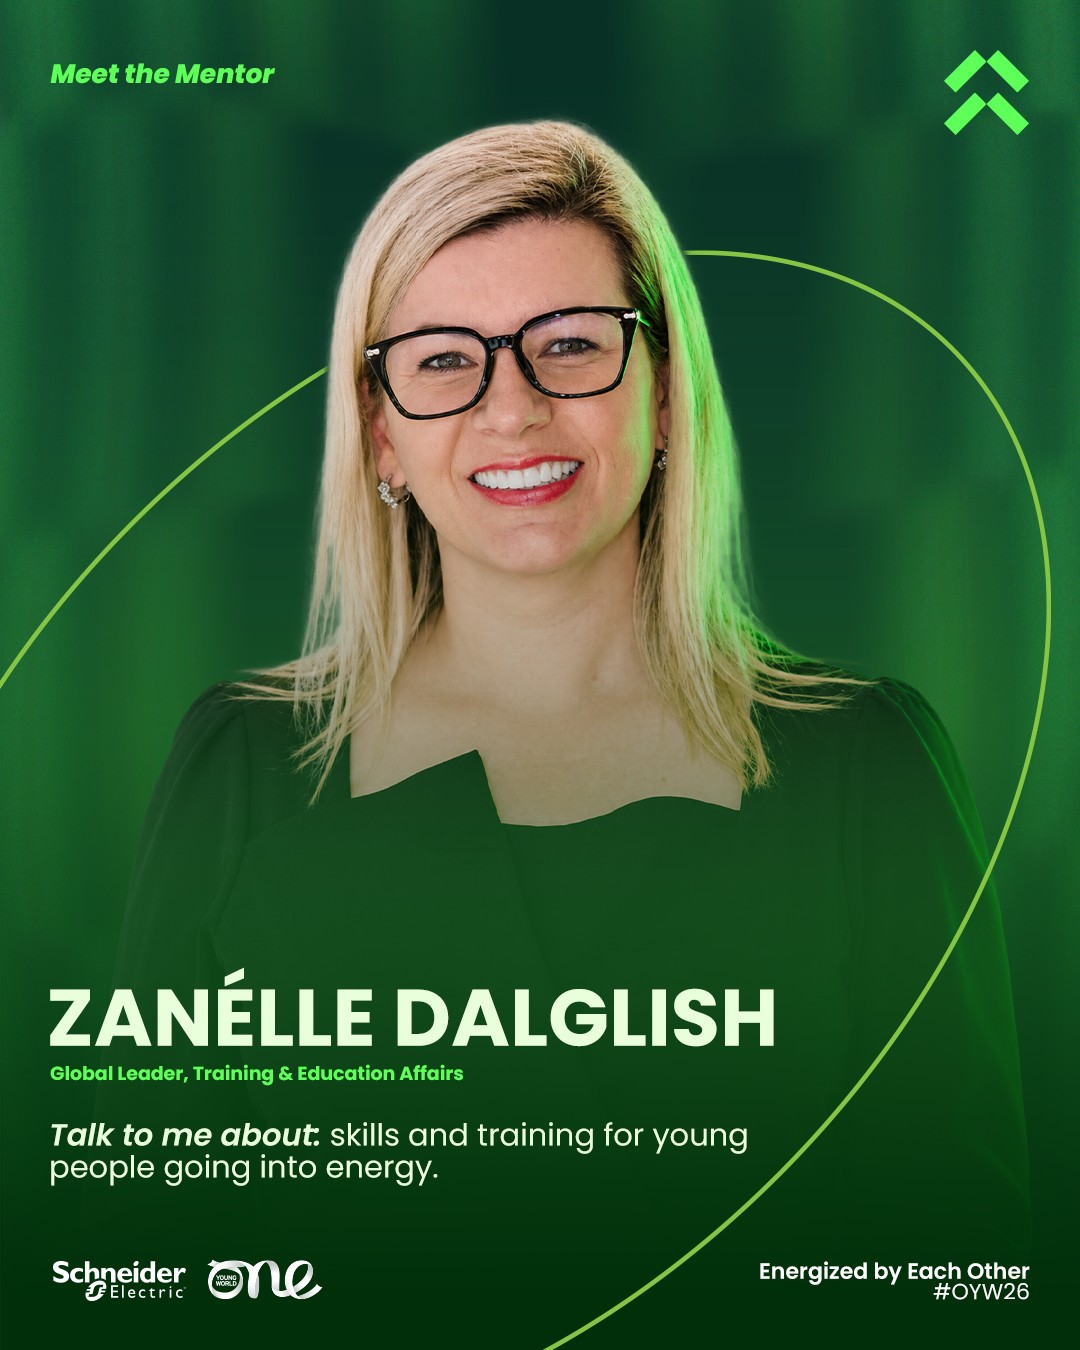
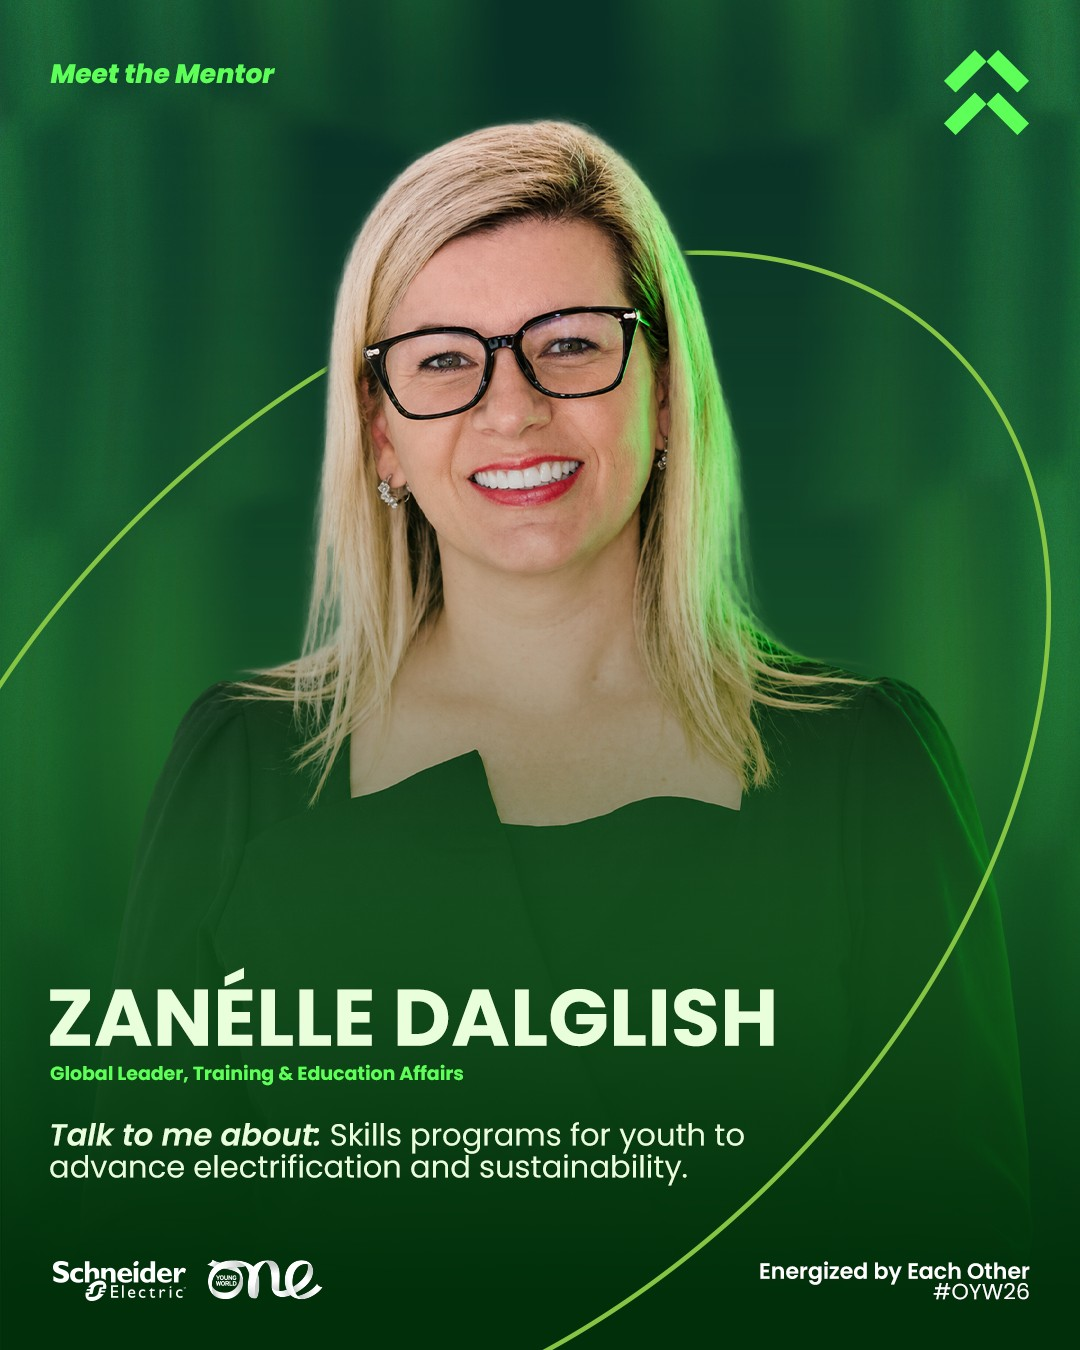
Posts: 15 Oct afternoon upload — five mentor captions rewritten, three cards re-exported
Client copy for Canninah Dladla, Charise Le, Neslihan Ogan, Tanya Ramlagan
and Zita Patonai replaced (published verbatim). Zanelle Dalglish's card
carries a new "Talk to me about" line; Canninah's and Esther Finidori's
cards were re-exported with the top line reading "Meet the Speaker" while
every caption and both manifests still say "Meet the Mentor" (flagged to
the client, published as delivered). Manifests and README wording moved
to Mentors; mentors_manifest.json content unchanged. 212/212 caption
strings verbatim. Cache version 20261015b.

Changed region(s): [[0.0611, 0.8089, 0.7028, 0.9022]]

diff --git a/index.html b/index.html
@@ -11,7 +11,7 @@
   <meta property="og:type" content="website">
   <link rel="icon" href="assets/se-mark.svg" type="image/svg+xml">
   <link rel="preload" as="image" href="assets/frames/frame-bg-lossless.webp" type="image/webp">
-  <link rel="stylesheet" href="css/style.css?v=20261015a">
+  <link rel="stylesheet" href="css/style.css?v=20261015b">
 </head>
 <body>
 
@@ -298,10 +298,10 @@ Schneider Electric</pre>
 
   <div id="toast" class="toast" role="status" aria-live="polite"></div>
 
-  <script src="js/app.js?v=20261015a" defer></script>
-  <script src="js/signature.js?v=20261015a" defer></script>
-  <script src="js/toolkit.js?v=20261015a" defer></script>
-  <script src="js/editor.js?v=20261015a" defer></script>
-  <script src="js/posts.js?v=20261015a" defer></script>
+  <script src="js/app.js?v=20261015b" defer></script>
+  <script src="js/signature.js?v=20261015b" defer></script>
+  <script src="js/toolkit.js?v=20261015b" defer></script>
+  <script src="js/editor.js?v=20261015b" defer></script>
+  <script src="js/posts.js?v=20261015b" defer></script>
 </body>
 </html>
